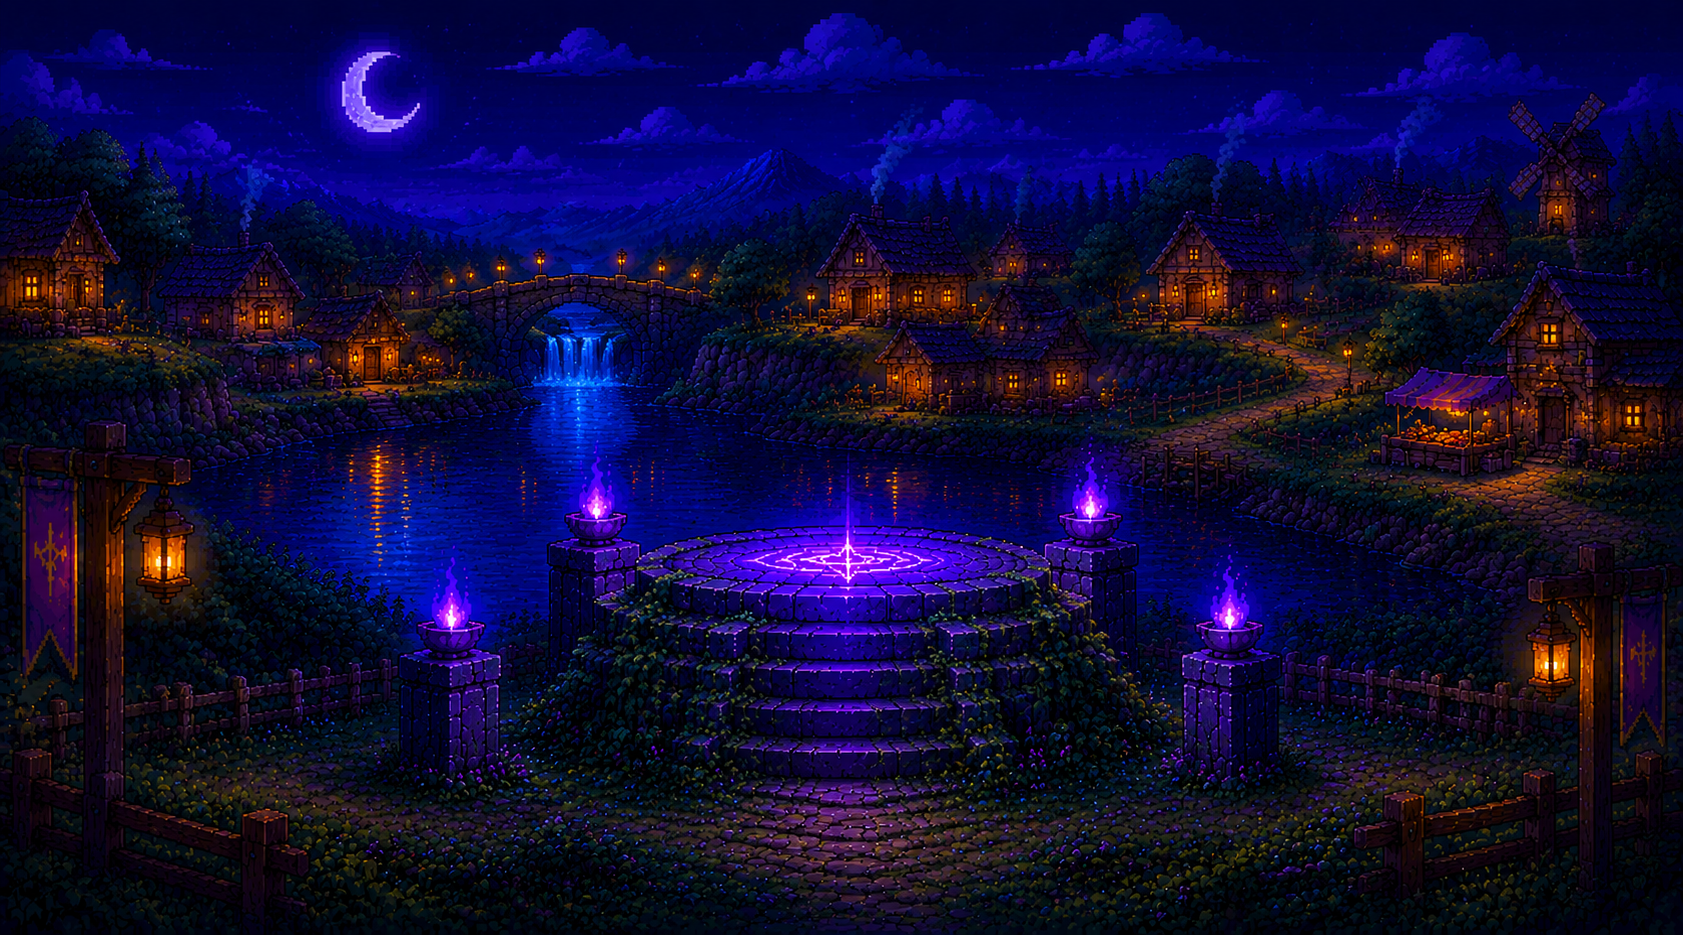
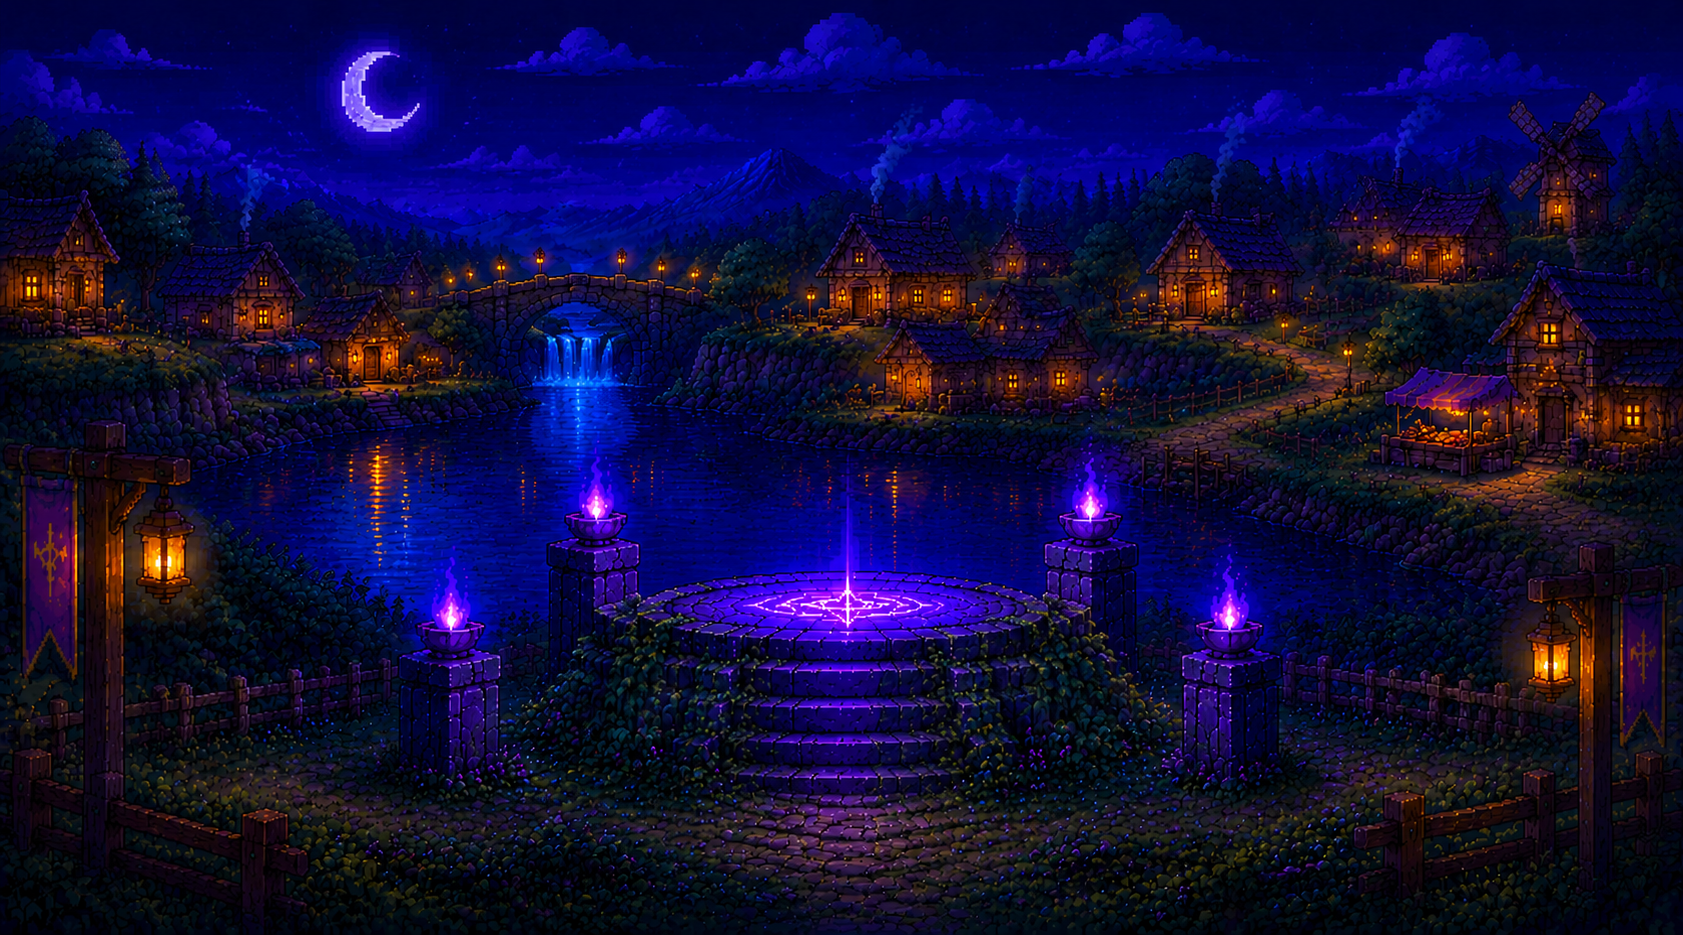
feat: configura fundos de batalha por fase, adiciona erros dos chefes e troca instantânea de personagens no final

diff --git a/js/selecao-boss.js b/js/selecao-boss.js
@@ -5,27 +5,27 @@ const phaseBosses = {
       image: "../assets/images/boss/bossVila1.png",
       health: "800 / 800",
       exp: "150 EXP",
-      description: "O primeiro defensor do reino. Mostre que você domina as bases antes de seguir pela jornada.",
+      description: "O primeiro defensor do reino. Criado pelos carpinteiros com ajuda do Cientista, ele desafia todos que ameaçam Potencius.",
       level: "NÍVEL 4",
       difficulty: 1,
       expPercent: 58
     },
     {
-      name: "MESTRE DAS BASES",
+      name: "GUERREIRO",
       image: "../assets/images/boss/bossVila2.png",
       health: "1.000 / 1.000",
       exp: "200 EXP",
-      description: "Ele conhece cada número da vila e desafia aventureiros a escolher a base correta.",
+      description: "Filho do Carpinteiro, seu sonho é se tornar o maior guerreiro da vila, e proteger o Potencius.",
       level: "NÍVEL 6",
       difficulty: 1,
       expPercent: 68
     },
     {
-      name: "SENTINELA NUMÉRICA",
+      name: "CARPINTEIRO",
       image: "../assets/images/boss/bossVila3.png",
       health: "1.200 / 1.200",
       exp: "250 EXP",
-      description: "A última barreira da vila. Vença suas potências para abrir caminho até a árvore.",
+      description: "A última barreira da vila. O Carpinteiro Mestre, leal a Potencius, desafia todos que tentam atravessar a vila.",
       level: "NÍVEL 8",
       difficulty: 2,
       expPercent: 78
@@ -34,7 +34,7 @@ const phaseBosses = {
 
   arvore: [
     {
-      name: "GUARDIÃO DAS POTENCIAS",
+      name: "SENTINELA DAS POTENCIAS",
       image: "../assets/images/boss/bossArvore1.png",
       health: "1.200 / 1.200",
       exp: "250 EXP",
@@ -44,21 +44,21 @@ const phaseBosses = {
       expPercent: 76
     },
     {
-      name: "SENTINELA DOS EXPOENTES",
+      name: "PROJETO 0",
       image: "../assets/images/boss/bossArvore2.png",
       health: "1.600 / 1.600",
       exp: "350 EXP",
-      description: "Uma sentinela de cristais que cresce a cada expoente dominado.",
+      description: "Criado pela Botânica e pelo Cientista, o Projeto 0 é o sentinela perfeito para testar quem domina as potências.",
       level: "NÍVEL 16",
       difficulty: 3,
       expPercent: 84
     },
     {
-      name: "ENTIDADE EXPONENCIAL",
+      name: "BOTÂNICA",
       image: "../assets/images/boss/bossArvore3.png",
       health: "2.000 / 2.000",
       exp: "500 EXP",
-      description: "A energia final da árvore. Apenas quem domina as potências consegue vencê-la.",
+      description: "A energia final da árvore. a Botânica, guardiã das potências, desafia todos que tentam atravessar a árvore.",
       level: "NÍVEL 20",
       difficulty: 4,
       expPercent: 95
@@ -81,7 +81,7 @@ const phaseBosses = {
       image: "../assets/images/boss/bossPortao2.png",
       health: "1.800 / 1.800",
       exp: "400 EXP",
-      description: "Sua marreta cresce com cada cálculo. Use estratégia para atravessar o portão.",
+      description: "O cavaleiro com suas manoplas de ferro, desafia todos que tentam atravessar o portão, testando sua habilidade com potências.",
       level: "NÍVEL 26",
       difficulty: 4,
       expPercent: 88
@@ -91,7 +91,7 @@ const phaseBosses = {
       image: "../assets/images/boss/bossPortao3.png",
       health: "2.200 / 2.200",
       exp: "550 EXP",
-      description: "A força final diante do castelo. Apenas quem domina as potências passa por ele.",
+      description: "O guardião do Potencius, o último defensor do portão, desafia todos que tentam atravessar o portão.",
       level: "NÍVEL 30",
       difficulty: 4,
       expPercent: 96
@@ -100,7 +100,7 @@ const phaseBosses = {
 
   castelo: [
     {
-      name: "SOMBRA POTENCIAL",
+      name: "CIENTISTA",
       image: "../assets/images/characters/cientista.png",
       health: "2.400 / 2.400",
       exp: "600 EXP",
@@ -110,7 +110,7 @@ const phaseBosses = {
       expPercent: 86
     },
     {
-      name: "O CIENTISTA",
+      name: "NINJA SOMBRIO",
       image: "../assets/images/characters/ninja.png",
       health: "2.800 / 2.800",
       exp: "750 EXP",

diff --git a/js/batalha.js b/js/batalha.js
@@ -8,6 +8,7 @@ const bossIndex = Number(parameters.get("chefe"));
 
 const boss = phaseBosses[battlePhase]?.[bossIndex];
 const phaseSetting = battlePhaseSettings[battlePhase];
+const phaseBackground = battleBackgrounds[battlePhase];
 
 // ==================================================
 // VALIDAÇÃO
@@ -16,7 +17,7 @@ const phaseSetting = battlePhaseSettings[battlePhase];
 const bossLiberado =
   window.Progressao?.chefeLiberado(battlePhase, bossIndex) ?? true;
 
-if (!boss || !phaseSetting || !bossLiberado) {
+if (!boss || !phaseSetting || !phaseBackground || !bossLiberado) {
   window.location.replace("mapa.html");
 } else {
 
@@ -115,7 +116,7 @@ if (!boss || !phaseSetting || !bossLiberado) {
 
   screen.style.setProperty(
     "--battle-background",
-    `url("${phaseSetting.background}")`
+    `url("${phaseBackground}")`
   );
 
   document.querySelector("#phase-name").textContent =
@@ -434,6 +435,7 @@ if (!boss || !phaseSetting || !bossLiberado) {
     ui.bossTurn.hidden = false;
     ui.bossTurn.classList.toggle("is-special", special);
     ui.bossTurn.classList.remove("is-feedback");
+    ui.bossTurn.classList.remove("is-boss-mistake");
     ui.bossTurnLabel.textContent = special
       ? "ESPECIAL DO CHEFE · PODER FINAL"
       : "O CHEFE RESPONDE";
@@ -469,13 +471,22 @@ if (!boss || !phaseSetting || !bossLiberado) {
       return;
     }
 
-    ui.bossAnswer.innerHTML =
-      `Resposta: <b>${question.answer}</b><br><br> Você sofreu ${damage} de dano!`;
+    const bossMadeMistake = Math.random() < bossMistakeChance;
 
-    state.playerHealth =
-      Math.max(0, state.playerHealth - damage);
+    if (bossMadeMistake) {
+      ui.bossTurn.classList.add("is-feedback", "is-boss-mistake");
+      ui.bossTurnLabel.textContent = "O CHEFE ERROU A RESPOSTA";
+      ui.bossAnswer.innerHTML =
+        `<strong> ERROU!</strong> A resposta correta era <b>${question.answer}</b>. Você não sofreu dano.`;
+    } else {
+      ui.bossAnswer.innerHTML =
+        `Resposta: <b>${question.answer}</b><br><br> Você sofreu ${damage} de dano!`;
 
-    updateMeters();
+      state.playerHealth =
+        Math.max(0, state.playerHealth - damage);
+
+      updateMeters();
+    }
 
     await wait(2000);
 

diff --git a/css/historia.css b/css/historia.css
@@ -175,7 +175,7 @@ a {
 }
 
 .story-intro .story-character.story-character--scene-2 {
-  bottom: clamp(-22rem, -1.5vw, 15rem);
+  bottom: clamp(-22rem, -3vw, 15rem);
 
   left: clamp(1rem, 5vw, 10rem);
 
@@ -191,11 +191,11 @@ a {
 }
 
 .story-intro .story-character.story-character--scene-4 {
-  bottom: clamp(-22rem, -2vw, 15rem);
+  bottom: clamp(-22rem, -5vw, 15rem);
 
-  left: clamp(1rem, 4vw, 15rem);
+  left: clamp(-50rem, -1vw, 15rem);
 
-  width: clamp(380px, 50vw, 1000px);
+  width: clamp(380px, 58vw, 1000px);
 }
 
 /* =====================================================
@@ -399,11 +399,7 @@ a {
   opacity: 0;
   visibility: hidden;
 
-  transition:
-    opacity 0.5s ease,
-    visibility 0.5s ease,
-    filter 0.5s ease,
-    transform 0.5s ease;
+  transition: none;
 }
 
 /* =====================================================
@@ -433,29 +429,19 @@ a {
    ===================================================== */
 
 #final-scene .final-character--scene-1,
-#final-scene .final-character--scene-5 {
+#final-scene .final-character--scene-3,
+#final-scene .final-character--scene-5,
+#final-scene .final-character--scene-7 {
   bottom: clamp(-22rem, -1vw, 15rem);
   left: clamp(1rem, 4vw, 10rem);
   width: clamp(380px, 45vw, 1000px);
 }
 
 #final-scene .final-character--scene-2,
+#final-scene .final-character--scene-4,
 #final-scene .final-character--scene-6 {
-  bottom: clamp(-22rem, -1.5vw, 15rem);
+  bottom: clamp(-22rem, -3vw, 15rem);
   left: clamp(1rem, 8vw, 10rem);
-  width: clamp(380px, 50vw, 1000px);
-}
-
-#final-scene .final-character--scene-3,
-#final-scene .final-character--scene-7 {
-  bottom: clamp(-14rem, -1.5vw, 15rem);
-  left: clamp(1rem, 4vw, 10rem);
-  width: clamp(460px, 45vw, 1000px);
-}
-
-#final-scene .final-character--scene-4 {
-  bottom: clamp(-22rem, -1.5vw, 15rem);
-  left: clamp(1rem, 6vw, 10rem);
   width: clamp(380px, 50vw, 1000px);
 }
 

diff --git a/js/conteudo-batalha.js b/js/conteudo-batalha.js
@@ -1,6 +1,14 @@
-/* Edite os ataques, perguntas e valores de cada fase neste arquivo. */
+const battleBackgrounds = {
+  vila: "../assets/images/background/campo_batalha_vila.png",
+  arvore: "../assets/images/background/campo_batalha_arvore.png",
+  portao: "../assets/images/background/campo_batalha_portao.png",
+  castelo: "../assets/images/background/campo_batalha_castelo.png"
+};
 
 const phaseOrder = ["vila", "arvore", "portao", "castelo"];
+
+// Chance de qualquer chefe errar a resposta em cada turno (1 em 4 = 1/4).
+const bossMistakeChance = 1 / 4;
 
 const battleAttacks = [
   { id: "faisca", name: "FAÍSCA BASE", icon: "✦", cost: 50, damage: 650 },
@@ -23,10 +31,10 @@ const bossQuestions = {
 };
 
 const battlePhaseSettings = {
-  vila: { background: "../assets/images/background/campo_batalha.png", normalDamage: 260, bossDamage: 12 },
-  arvore: { background: "../assets/images/background/campo_batalha.png", normalDamage: 340, bossDamage: 15 },
-  portao: { background: "../assets/images/background/campo_batalha.png", normalDamage: 420, bossDamage: 17 },
-  castelo: { background: "../assets/images/background/campo_batalha.png", normalDamage: 4000, bossDamage: 20 }
+  vila: { normalDamage: 260, bossDamage: 12 },
+  arvore: { normalDamage: 340, bossDamage: 15 },
+  portao: { normalDamage: 420, bossDamage: 17 },
+  castelo: { normalDamage: 4000, bossDamage: 20 }
 };
 
 function createPowerQuestion([base, exponent]) {

diff --git a/css/batalha.css b/css/batalha.css
@@ -196,6 +196,20 @@ input {
 .boss-turn.is-special #boss-turn-label {
   color: #ffb2c6;
 }
+.boss-turn.is-boss-mistake {
+  border-color: #73f2ae;
+  background: linear-gradient(
+    145deg,
+    rgba(12, 61, 54, 0.97),
+    rgba(8, 28, 43, 0.97)
+  );
+  box-shadow:
+    inset 0 0 0 2px rgba(115, 242, 174, 0.2),
+    0 0 30px rgba(67, 232, 157, 0.34);
+}
+.boss-turn.is-boss-mistake #boss-turn-label {
+  color: #a6ffcf;
+}
 @keyframes panel-arrive {
   from {
     opacity: 0;
